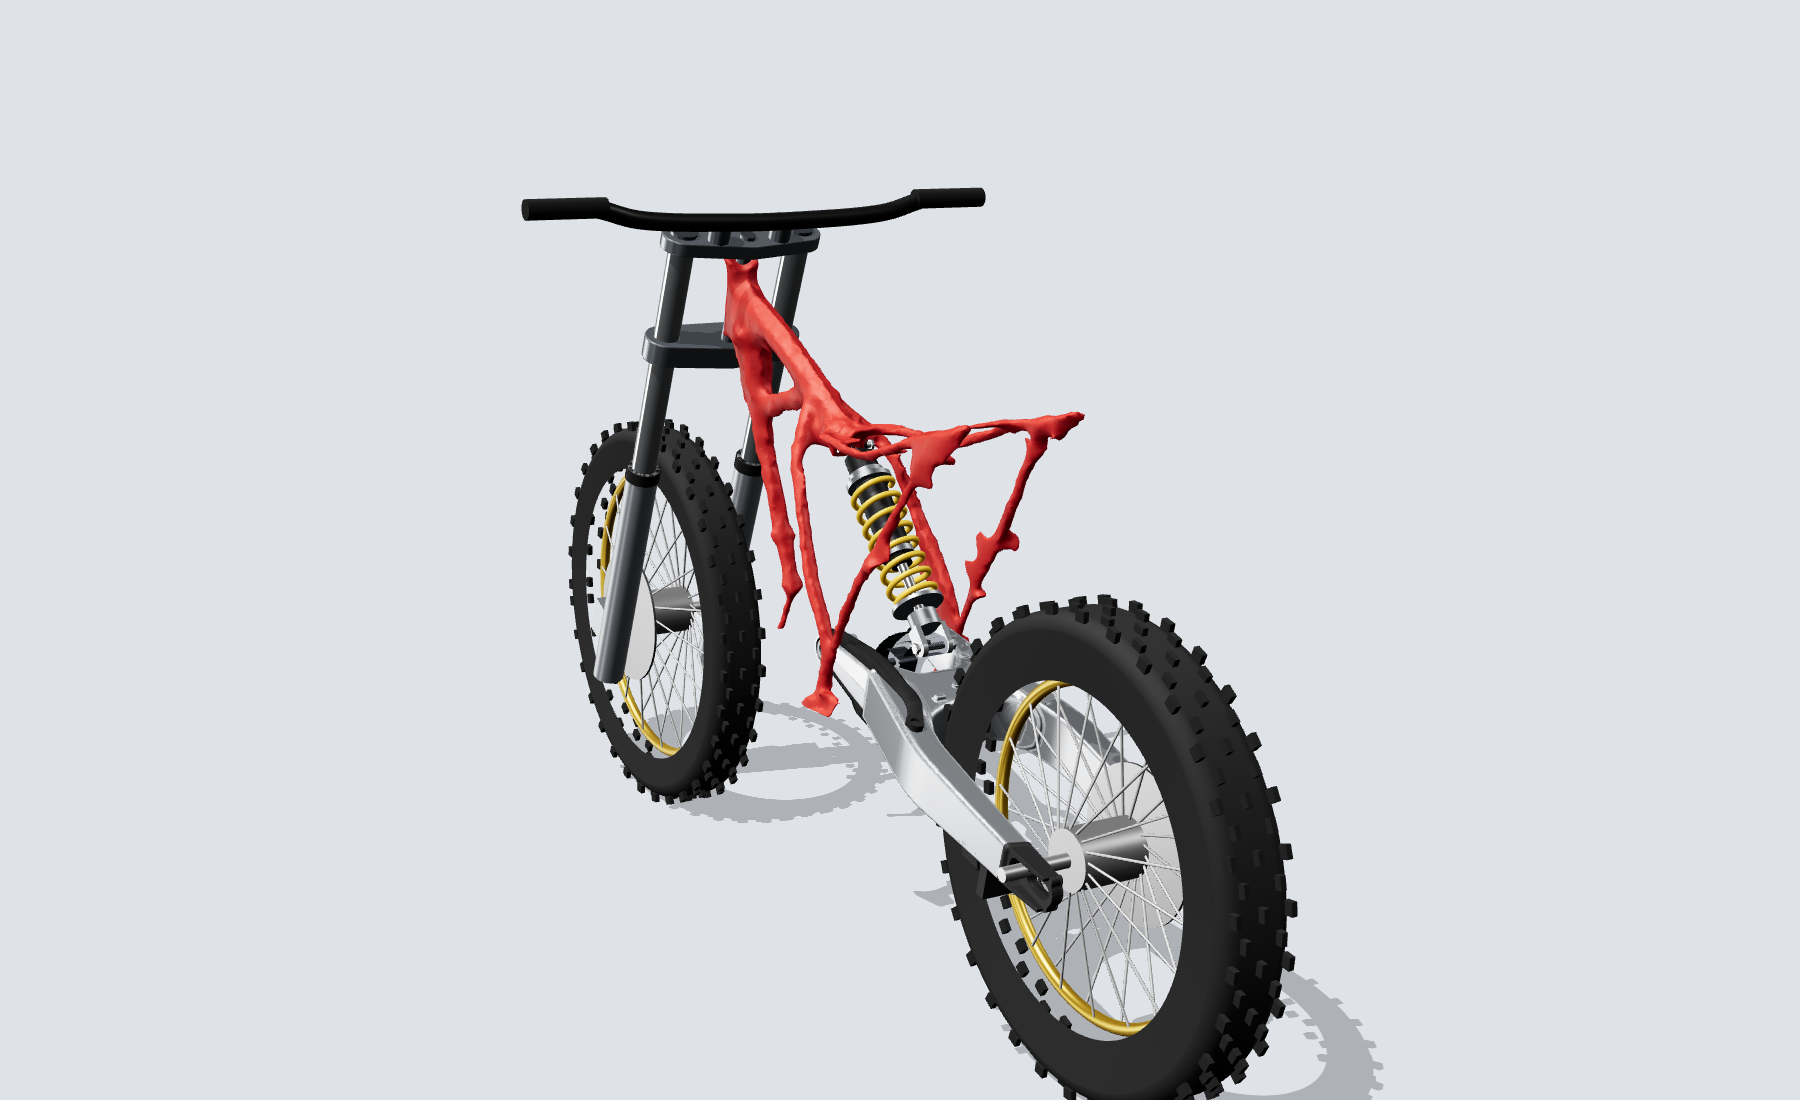
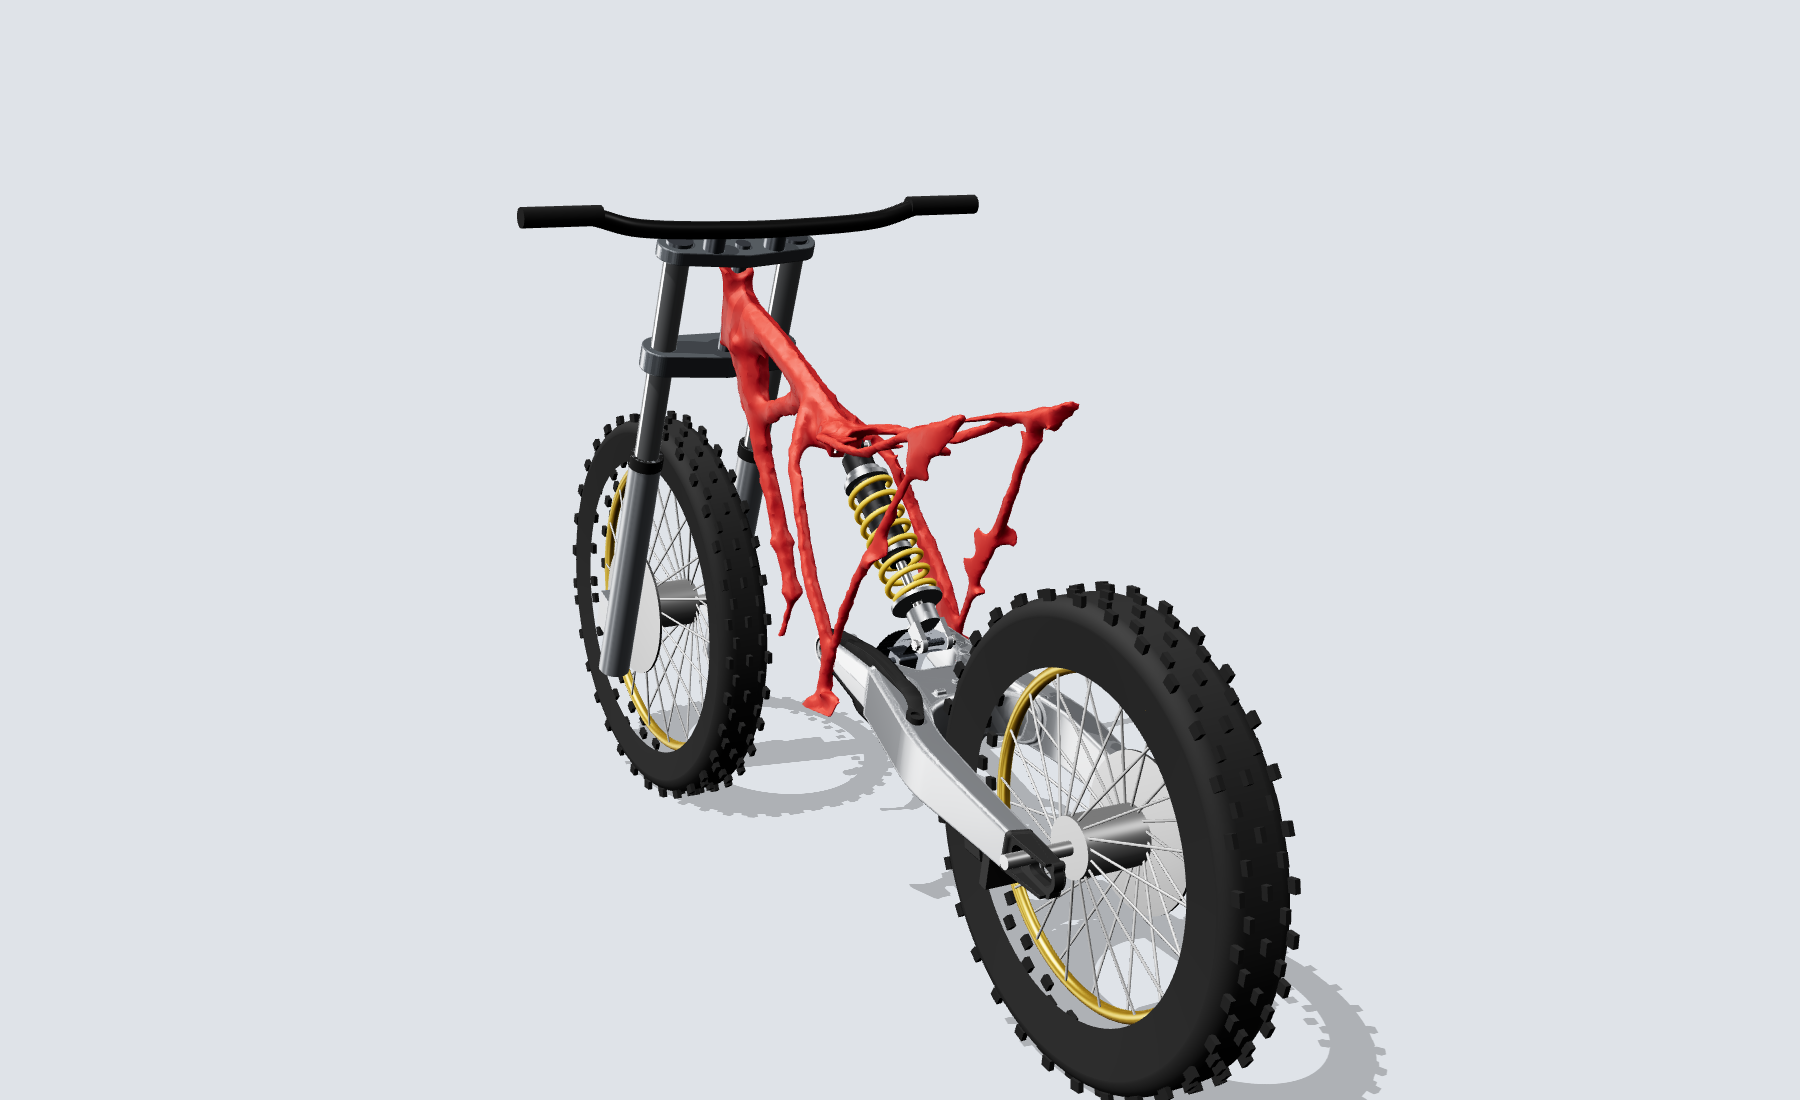
Render: 100 mm fork spacer and whole-bike travel animation
Claude-Session: https://claude.ai/code/session_01EhMcsCxbaz5LuQ9ftYg4nN

Changed region(s): [[0.28, 0.1545, 0.7778, 1.0], [0.7467, 0.9891, 0.7778, 1.0]]

diff --git a/files/rear-render/page.html b/files/rear-render/page.html
@@ -12,7 +12,7 @@ function front(opt){
   const u=[Math.sin(ang),-Math.cos(ang)], f=[Math.cos(ang),Math.sin(ang)];
   const top=[455-25*f[0],575-25*f[1]];       // head tube top centre, 25 mm behind the front edge
   const HEAD=145, yokeOff=20, axleFwd=40, halfSpan=105;  // Joel 31 Oct: yokes 20 mm offset, axle 40 mm ahead of the tube centreline
-  const spacer=opt.spacer??50, fork=935-spacer, sag=opt.fsag??75, slide=0;  // Joel: 935 top of fork to axle fully extended; 50 mm internal spacer (31 Oct)
+  const spacer=opt.spacer??100, fork=935-spacer, sag=opt.fsag??75, slide=0;  // Joel: 935 top of fork to axle fully extended; 50 mm internal spacer (31 Oct)
   const topYokeZ=15, botYokeZ=-(HEAD+10+36);   // local Z up the axis from the head tube top
   const tubeTopZ=topYokeZ+20+slide, len=fork-sag, axleZ=tubeTopZ-len, sliderTopZ=axleZ+360;
   const t=-axleZ, fw=yokeOff+axleFwd; const ax=[top[0]+t*u[0]+fw*f[0], top[1]+t*u[1]+fw*f[1]];
@@ -122,9 +122,10 @@ window.renderView=async function(opt){
     const bar=new THREE.Mesh(new THREE.TubeGeometry(new THREE.CatmullRomCurve3(bp),80,14.3,16,false),barM); bar.castShadow=true; SG.add(bar);
     for(const s of [1,-1]){const gr=new THREE.Mesh(new THREE.CylinderGeometry(16,16,130,24),M(0x111111,0,0.9)); gr.position.set(-40,s*340,FA.topYokeZ+105); gr.castShadow=true; SG.add(gr);}
     if(opt.wheel!==false) makeWheel(FA.axle,RF,267,46,62);
+    if(opt.label){} 
   }
   // pitch the whole bike about the swingarm pivot so both tyres sit on the ground
-  let pitch=0; if(opt.level!==false&&opt.front!==false){const ax=FA.axle[0]-P.axle[0], az=FA.axle[1]-P.axle[1], L=Math.hypot(ax,az); pitch=Math.asin((RF-RR)/L)-Math.atan2(az,ax);}
+  let pitch=0; if(opt.pitchDeg!==undefined){pitch=opt.pitchDeg*Math.PI/180;} else if(opt.level!==false&&opt.front!==false){const ax=FA.axle[0]-P.axle[0], az=FA.axle[1]-P.axle[1], L=Math.hypot(ax,az); pitch=Math.asin((RF-RR)/L)-Math.atan2(az,ax);}
   root.rotation.y=-pitch; const rr=[P.axle[0]*Math.cos(pitch)-P.axle[1]*Math.sin(pitch), P.axle[0]*Math.sin(pitch)+P.axle[1]*Math.cos(pitch)];
   {const c=Math.cos(pitch),s=Math.sin(pitch); const R2=q=>[q[0]*c-q[1]*s,q[0]*s+q[1]*c]; const fa=R2(FA.axle), ra=R2(P.axle), ht=R2(FA.top), uu=R2(FA.u);
    const gzz=ra[1]-RR; const tt=(gzz-ht[1])/uu[1]; const hitX=ht[0]+tt*uu[0]; console.log('wheelbase',(fa[0]-ra[0]).toFixed(0),'trail',(hitX-fa[0]).toFixed(0),'pivot height',(-gzz).toFixed(0));}

diff --git a/files/rear-render/README.md b/files/rear-render/README.md
@@ -13,9 +13,10 @@ Joel's CRF250R arm (from his STEP model), his v2 windowed rocker (traced from hi
 
 - [Side](https://raw.githubusercontent.com/Blevo66/chassis-bench/claude/project-thread-bk4fwa/files/rear-render/render-bike-side.png)
 - [Three-quarter front](https://raw.githubusercontent.com/Blevo66/chassis-bench/claude/project-thread-bk4fwa/files/rear-render/render-bike-hero.png)
+- [Animation, both ends droop to bump (GIF)](https://raw.githubusercontent.com/Blevo66/chassis-bench/claude/project-thread-bk4fwa/files/rear-render/render-bike-travel.gif)
 - [Three-quarter rear](https://raw.githubusercontent.com/Blevo66/chassis-bench/claude/project-thread-bk4fwa/files/rear-render/render-bike-rear.png)
 
-Front end from Joel's numbers: CR yokes 20 mm offset, axle 40 mm ahead of the tube centreline (60 mm total), legs 100 mm below the axle, 935 mm from the top of the fork to the axle fully extended, with a 50 mm internal spacer (885 mm extended), tube tops flush with the top yoke, 75 mm front sag. The head tube angle comes off the frame scan. The bike is pitched so both tyres touch the ground (front 346 mm radius, rear 323) with 95 mm of rear sag. That gives about 24.6 deg head angle, 92 mm trail and a 1391 mm wheelbase (without the spacer: 26.4 deg, 105 mm, 1412 mm), all as good as the scan. Tube spacing (210 mm), the yoke shapes and the bars are stand-ins.
+Front end from Joel's numbers: CR yokes 20 mm offset, axle 40 mm ahead of the tube centreline (60 mm total), legs 100 mm below the axle, 935 mm from the top of the fork to the axle fully extended, with a 100 mm internal spacer (835 mm extended, 200 mm travel), tube tops flush with the top yoke, 75 mm front sag. The head tube angle comes off the frame scan. The bike is pitched so both tyres touch the ground (front 346 mm radius, rear 323) with 95 mm of rear sag. That gives about 22.7 deg head angle, 80 mm trail and a 1372 mm wheelbase (50 mm spacer: 24.6 deg, 92 mm, 1391 mm; no spacer: 26.4 deg, 105 mm, 1412 mm), all as good as the scan. Tube spacing (210 mm), the yoke shapes and the bars are stand-ins.
 
 Notes: the linkage is solved with the arm model's own lug hole, which is 209 mm along and 56 mm below the arm line. Joel's tape on his arm said 200 / 50. With the model's lug the arm tops out at 28.4 deg down (not ~24), with 252 mm vertical wheel travel and about 30% rising rate. Shock details (clevis, seat at ~72 mm, ~78 mm OD spring) are estimates.
 
